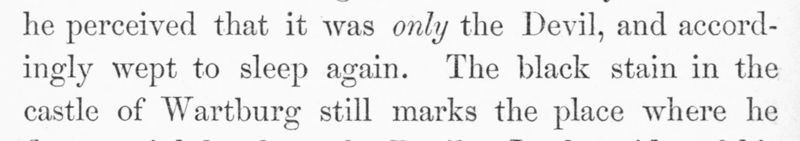
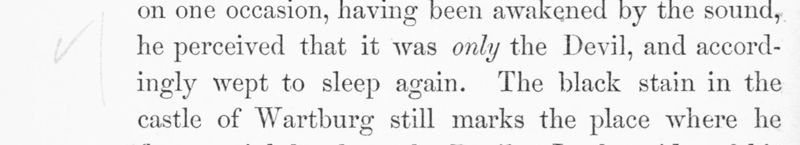
As printed: 'wept' strip now shows the pencil tick in the margin; OCR retry tool saves chunks as they finish
Claude-Session: https://claude.ai/code/session_015KdHPdf9qH7jgjQFkS3ocu

diff --git a/docs/rationalism/as-printed.html b/docs/rationalism/as-printed.html
@@ -41,7 +41,7 @@
 <p>This edition fixes the mistakes of the scanning software and nothing else. Where the 1865 printing itself has an odd word, a strange spelling or a wrong date, the text here keeps it. In November 2026 a machine reader was asked to flag likely errors in the transcription; each flag was then checked against a photograph of the printed line. Most of the “errors” turned out to be in the book. The best of them are shown below. Click a strip to open the full page of the scan.</p>
 <h2>Where the sense wants another word</h2>
 <p><strong>“Accordingly wept to sleep again”</strong> (vol. I, p. 66). Luther, Lecky says, grew so used to the Devil making a noise in the cloisters that, woken by the sound one night, “he perceived that it was <em>only</em> the Devil, and accordingly wept to sleep again”. The joke needs “went”. In the scanned copy there is a pencil tick in the margin beside these lines, perhaps an earlier reader’s.</p>
-<figure class="facsimile"><a href="https://archive.org/details/rationalismeuro01leckuoft/page/n95/mode/2up"><img src="../assets/img/rationalism/slips/wept.jpg" alt="Printed lines reading “he perceived that it was only the Devil, and accordingly wept to sleep again”" loading="lazy"></a><figcaption>Vol. I, p. 66. <span class="credit">Scan: Internet Archive · public domain</span></figcaption></figure>
+<figure class="facsimile"><a href="https://archive.org/details/rationalismeuro01leckuoft/page/n95/mode/2up"><img src="../assets/img/rationalism/slips/wept.jpg" alt="Printed lines reading “he perceived that it was only the Devil, and accordingly wept to sleep again”" loading="lazy"></a><figcaption>Vol. I, p. 66, with the pencil tick in the left margin. <span class="credit">Scan: Internet Archive · public domain</span></figcaption></figure>
 
 <p><strong>“No priest had embraced Christianity”</strong> (vol. II, p. 25). Lecky is giving the persecutors’ case: if the New Testament shows no apostle using force, “this was simply because in their time no priest had embraced Christianity”. The sense seems to want “prince”, a ruler with force to use; the page says “priest”.</p>
 <figure class="facsimile"><a href="https://archive.org/details/rationalismineur02leckuoft/page/n40/mode/2up"><img src="../assets/img/rationalism/slips/priest.jpg" alt="Printed lines reading “this was simply because in their time no priest had embraced Christianity”" loading="lazy"></a><figcaption>Vol. II, p. 25. <span class="credit">Scan: Internet Archive · public domain</span></figcaption></figure>

diff --git a/tools/muse_ocr_sweep_retry.py b/tools/muse_ocr_sweep_retry.py
@@ -11,8 +11,10 @@ if __name__ == '__main__':
     cs = [(i, c) for i, c in enumerate(chunks()) if i in bad]
     print('retrying', len(cs), 'chunks', flush=True)
     tin = tout = 0
-    with cf.ThreadPoolExecutor(4) as ex:
-        for i, fl, u in ex.map(run, cs):
+    with cf.ThreadPoolExecutor(6) as ex:
+        # as_completed, not map: a slow chunk must not hold back finished ones
+        for fut in cf.as_completed([ex.submit(run, c) for c in cs]):
+            i, fl, u = fut.result()
             out = [x for x in out if x.get('chunk') != i] + [dict(x, chunk=i) for x in fl]
             tin += u.get('prompt_tokens', 0); tout += u.get('completion_tokens', 0)
             json.dump(out, open(OUT, 'w', encoding='utf-8'), indent=1, ensure_ascii=False)

diff --git a/content/rationalism/as-printed.md b/content/rationalism/as-printed.md
@@ -13,7 +13,7 @@ This edition fixes the mistakes of the scanning software and nothing else. Where
 
 **“Accordingly wept to sleep again”** (vol. I, p. 66). Luther, Lecky says, grew so used to the Devil making a noise in the cloisters that, woken by the sound one night, “he perceived that it was *only* the Devil, and accordingly wept to sleep again”. The joke needs “went”. In the scanned copy there is a pencil tick in the margin beside these lines, perhaps an earlier reader’s.
 
-<figure class="facsimile"><a href="https://archive.org/details/rationalismeuro01leckuoft/page/n95/mode/2up"><img src="../assets/img/rationalism/slips/wept.jpg" alt="Printed lines reading “he perceived that it was only the Devil, and accordingly wept to sleep again”" loading="lazy"></a><figcaption>Vol. I, p. 66. <span class="credit">Scan: Internet Archive · public domain</span></figcaption></figure>
+<figure class="facsimile"><a href="https://archive.org/details/rationalismeuro01leckuoft/page/n95/mode/2up"><img src="../assets/img/rationalism/slips/wept.jpg" alt="Printed lines reading “he perceived that it was only the Devil, and accordingly wept to sleep again”" loading="lazy"></a><figcaption>Vol. I, p. 66, with the pencil tick in the left margin. <span class="credit">Scan: Internet Archive · public domain</span></figcaption></figure>
 
 **“No priest had embraced Christianity”** (vol. II, p. 25). Lecky is giving the persecutors’ case: if the New Testament shows no apostle using force, “this was simply because in their time no priest had embraced Christianity”. The sense seems to want “prince”, a ruler with force to use; the page says “priest”.
 
